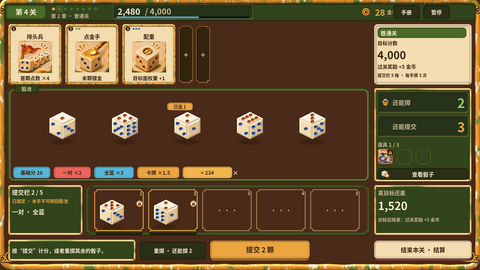
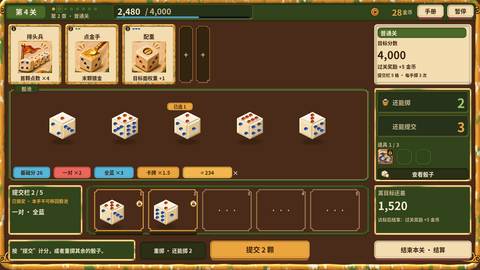
art(v1.1 W20 sancai): offline mock draws the top bar's right end like the game
Ported from the comic kit's fix (088c5a27), as the coordinator authorised
(2026-11-17). The sancai play mock put the "金币" label under the
handbook button and drew handbook and pause as dark chips. It now follows
GameApp.Play11 TopBar11 (gold group 1476-1652) and GameApp.Art07
DrawNavigation07 (handbook 1668, pause 1788, 108 x 60 UiKit.Button: a
paper face on the code's 8F453A step).

Rebuilt every sancai output and the --card-review image on
codex/v1.1-comic (with codex/v1.1 10045050 merged): only preview.png
(the mock reduced 4x) and contact_sheet.png change; the other 57 outputs
(53 sprites, table_scene, felt_tile, theme.json,
card_template_review.png) are byte-identical. README row W20-17.

Changed region(s): [[0.75, 0.0, 1.0, 0.0889]]

diff --git a/tools/art_v11/sancai/build_sancai.py b/tools/art_v11/sancai/build_sancai.py
@@ -1910,12 +1910,15 @@ def play_mock(sprites, specs, table) -> Image.Image:
     m.text(580, 44, "/ 4,000", 32, P["muted"], "lm")
     m.put("ui_progress_track", 466, 66, 532, 7, col("07191C"), mult=48 / 7)
     m.put("ui_progress_fill", 466, 66, 330, 7, col(P["blue"]), mult=48 / 7)
-    m.icon("ui_icon_coin", 1446, 30, 36, 36)
-    m.text(1540, 48, "28", 34, P["gold"], "rm")
-    m.text(1548, 48, "金币", 20, P["muted"], "lm")
-    for x, label in ((1572, "手册"), (1692, "暂停")):
-        m.put("ui_chip_formula", x, 20, 108, 56, sec)
-        m.text(x + 54, 48, label, 21, P["textColor"], "mm")
+    # Gold and the two buttons where the game puts them (GameApp.Play11 TopBar11: gold group 1476-1652; GameApp.Art07
+    # DrawNavigation07: handbook 1668 and pause 1788, 108 x 60 UiKit.Button = paper face on the code's 8F453A step).
+    m.icon("ui_icon_coin", 1482, 30, 36, 36)
+    m.text(1608, 48, "28", 34, P["gold"], "rm")
+    m.text(1610, 48, "金币", 20, P["muted"], "lm")
+    for x, label in ((1668, "手册"), (1788, "暂停")):
+        m.put("ui_button_bevel", x + 2, 26, 104, 54, col("8F453A"))
+        m.put("ui_button_bevel", x, 18, 108, 53, col(P["paper"]))
+        m.text(x + 54, 44, label, 23, P["ink"], "mm")
     # Cards.
     arts = ["C108", "C117", "U10"]
     for i, art in enumerate(arts):
